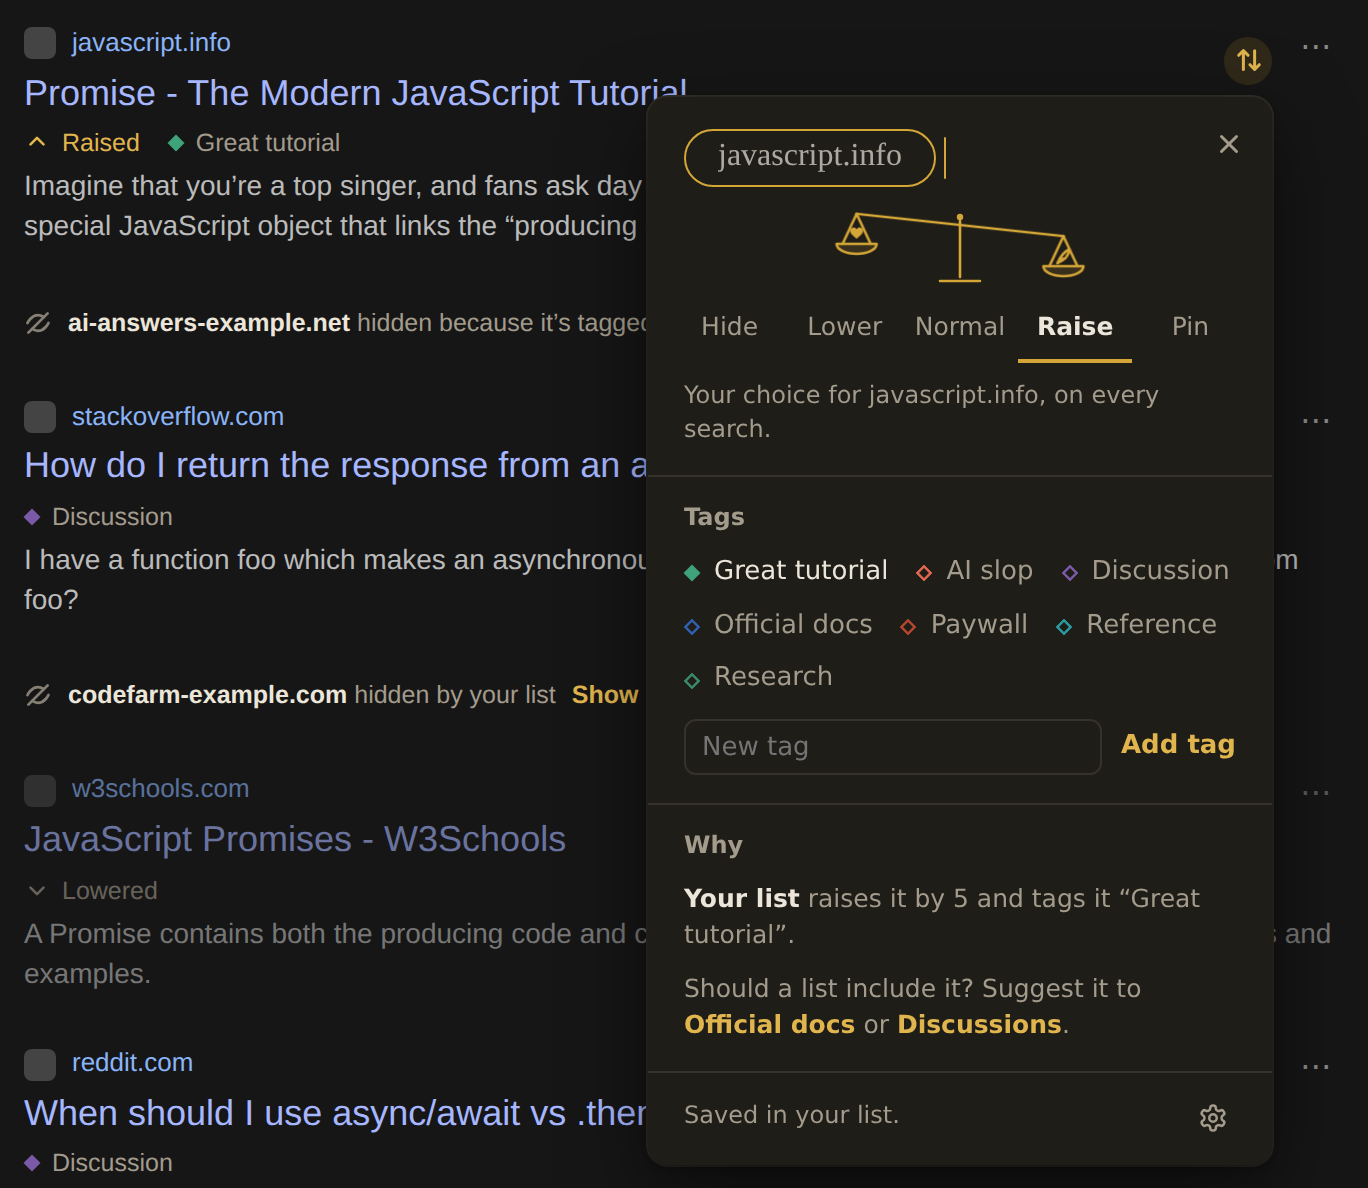
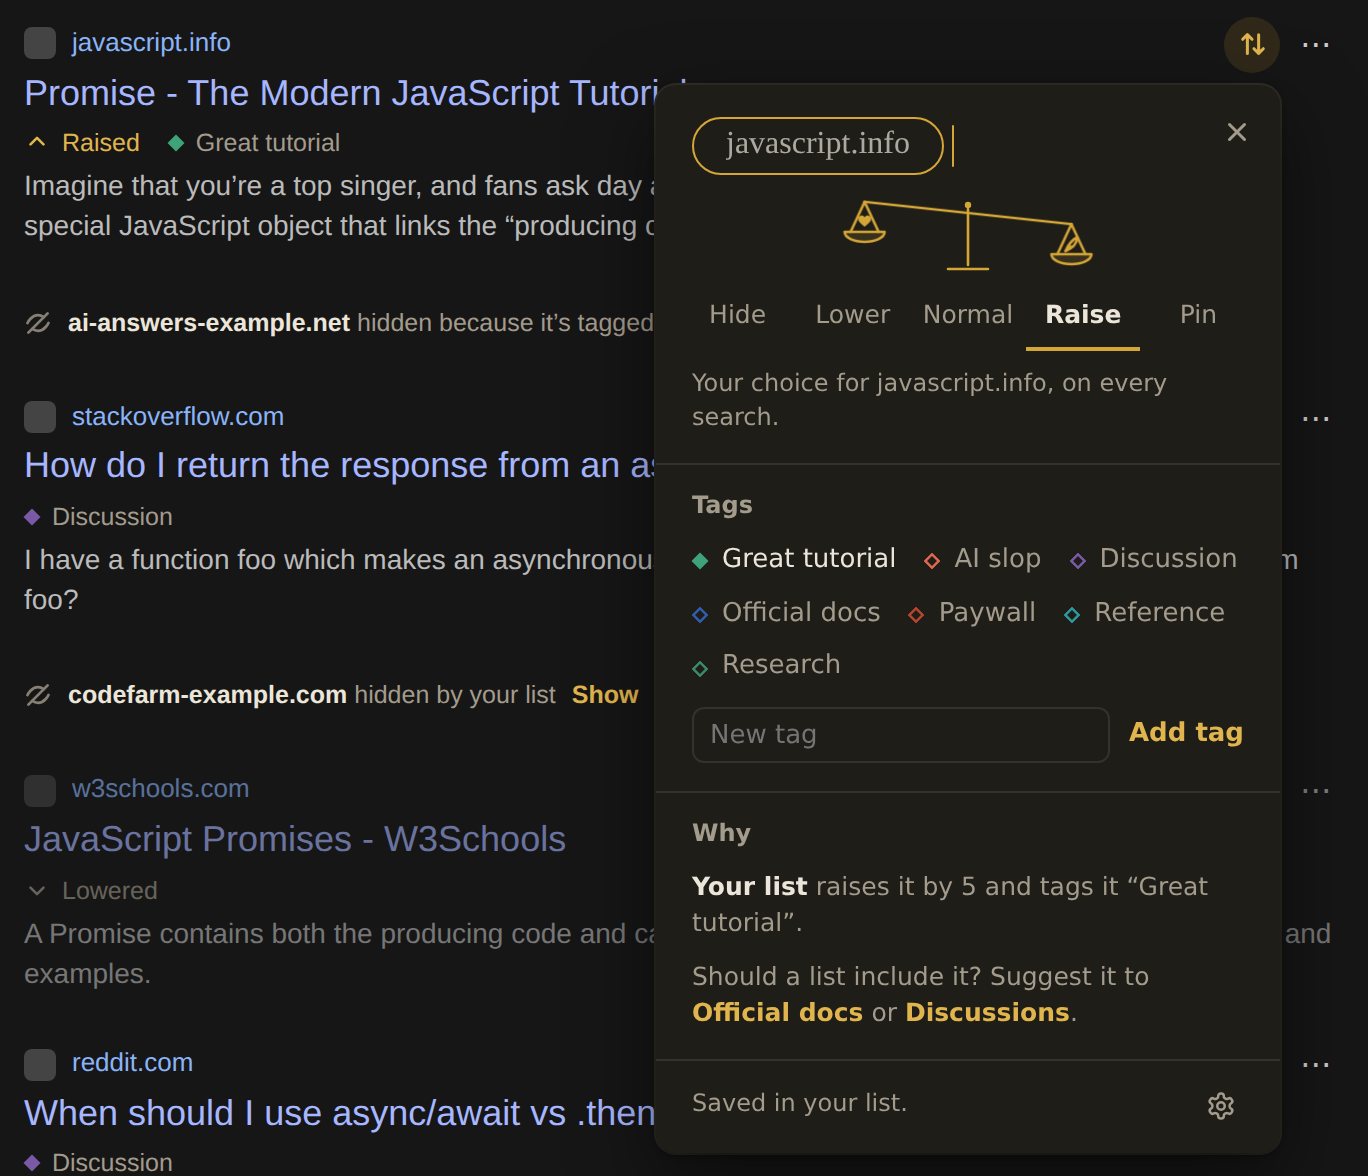
Put DuckDuckGo's weigh button beside the result's own menu, at its size

diff --git a/entrypoints/content/ui.ts b/entrypoints/content/ui.ts
@@ -275,10 +275,15 @@ export function ensureWeighButton(
     keepUpright(host);
     return;
   }
-  const { top, right } = engine.button ?? { top: '2px', right: '2px' };
+  const { top, right, besideMenu } = engine.button ?? { top: '2px', right: '2px' };
   host.style.setProperty('position', 'absolute', 'important');
-  host.style.setProperty('top', top, 'important');
-  host.style.setProperty('right', clearOfPictures(container, right), 'important');
+  const menu = besideMenu ? resultMenuOf(container) : undefined;
+  if (menu) placeBesideMenu(host, container, menu);
+  else {
+    for (const prop of MENU_LOOK) host.style.removeProperty(prop);
+    host.style.setProperty('top', top, 'important');
+    host.style.setProperty('right', clearOfPictures(container, right), 'important');
+  }
   host.style.setProperty('left', 'auto', 'important');
   host.style.setProperty('bottom', 'auto', 'important');
   host.style.setProperty('z-index', '5', 'important');
@@ -307,6 +312,44 @@ function clearOfPictures(container: HTMLElement, right: string): string {
     edge = Math.min(edge, r.left);
   }
   return edge === box.right ? right : `${Math.round(box.right - edge + 6)}px`;
+}
+
+/** The engine's own menu button on a result: the right-most small button in its top-right corner. */
+function resultMenuOf(container: HTMLElement): HTMLElement | undefined {
+  const box = container.getBoundingClientRect();
+  if (!box.width) return undefined;
+  let menu: HTMLElement | undefined;
+  let menuRight = -Infinity;
+  for (const el of container.querySelectorAll<HTMLElement>('button, [role="button"]')) {
+    const r = el.getBoundingClientRect();
+    if (!r.width || r.width > 48 || r.height > 48 || r.top > box.top + 64 || r.right < box.right - 64) continue;
+    if (r.right > menuRight) {
+      menu = el;
+      menuRight = r.right;
+    }
+  }
+  return menu;
+}
+
+/** What the weigh button takes from the engine's menu button to look like its neighbour. */
+const MENU_LOOK = ['--anubis-weigh-size', '--anubis-weigh-radius'];
+
+/**
+ * Just left of the engine's menu button and centred on it, at its size and shape,
+ * so the two read as a pair of options. The colours stay Anubis's own.
+ */
+function placeBesideMenu(host: HTMLElement, container: HTMLElement, menu: HTMLElement): void {
+  const box = container.getBoundingClientRect();
+  const m = menu.getBoundingClientRect();
+  const cs = getComputedStyle(container);
+  const ms = getComputedStyle(menu);
+  const size = Math.round(Math.min(44, Math.max(20, m.width, m.height)));
+  const top = m.top + m.height / 2 - size / 2 - box.top - parseFloat(cs.borderTopWidth);
+  const right = box.right - parseFloat(cs.borderRightWidth) - m.left + 4;
+  host.style.setProperty('top', `${Math.round(top)}px`, 'important');
+  host.style.setProperty('right', `${Math.round(right)}px`, 'important');
+  host.style.setProperty('--anubis-weigh-size', `${size}px`);
+  host.style.setProperty('--anubis-weigh-radius', parseFloat(ms.borderTopLeftRadius) ? ms.borderTopLeftRadius : '50%');
 }
 
 export function weighButtonOf(container: HTMLElement): HTMLButtonElement | undefined {

diff --git a/utils/engines.ts b/utils/engines.ts
@@ -43,8 +43,13 @@ export interface EngineDef {
   extraRows?: number;
   /** Results are table rows: hide rows instead of collapsing, and don't rerank. */
   table?: boolean;
-  /** Where the weigh button sits in the top-right corner of each result. */
-  button?: { top: string; right: string };
+  /**
+   * Where the weigh button sits in the top-right corner of each result. With
+   * `besideMenu`, it sits just left of the engine's own menu button on the result
+   * (DuckDuckGo's ⋯) instead, at its size and in its colour, like a second option;
+   * `top` and `right` apply when a result has no such button.
+   */
+  button?: { top: string; right: string; besideMenu?: boolean };
   /** How "Load more results" gets more results onto the page. */
   more?: MoreResults;
   /** Changes for the phone layout some engines send to mobile browsers (Firefox for Android). */
@@ -114,8 +119,8 @@ export const ENGINES: EngineDef[] = [
     isResultsPage: (url) => hasQuery(url, 'q'),
     heading: 'h2',
     boundary: 'ol, main, [data-testid="web-vertical"]',
-    // Clear of DuckDuckGo's own result menu in the corner.
-    button: { top: '6px', right: '36px' },
+    // Beside DuckDuckGo's own ⋯ menu on each result, as a second option.
+    button: { top: '6px', right: '36px', besideMenu: true },
     more: { kind: 'click', button: '#more-results, button[data-testid="more-results"]' },
   },
   {

diff --git a/entrypoints/content/shadow.css b/entrypoints/content/shadow.css
@@ -119,14 +119,16 @@ button {
   z-index: 5;
   display: block;
 }
+/* Size and shape come from the engine's own menu button where the weigh button
+   sits beside it (DuckDuckGo). */
 .weigh {
   display: grid;
   place-items: center;
-  width: 24px;
-  height: 24px;
+  width: var(--anubis-weigh-size, 24px);
+  height: var(--anubis-weigh-size, 24px);
   padding: 0;
   border: 0;
-  border-radius: 50%;
+  border-radius: var(--anubis-weigh-radius, 50%);
   color: var(--muted);
   background: transparent;
   opacity: var(--anubis-weigh-opacity, 0.35);
@@ -154,8 +156,8 @@ button {
 /* A finger needs a bigger target than a pointer. */
 @media (pointer: coarse) {
   .weigh {
-    width: 32px;
-    height: 32px;
+    width: var(--anubis-weigh-size, 32px);
+    height: var(--anubis-weigh-size, 32px);
   }
   .weigh svg {
     width: 17px;

diff --git a/docs/experiments.md b/docs/experiments.md
@@ -61,6 +61,7 @@ Reported with screenshots from everyday use. This environment's network policy b
 - **Reddit results on Google had no ⇅ button and no tags.** Forum results show the forum's name ("Reddit · r/learnpython") and "20+ comments · 2 years ago" where the address would be. With Google's opaque `/goto` links (uBlacklist switched to reading the address on 2026-08-28), the address was all Anubis had, so the result was dropped. Now it also tries the link's `ping` address, another direct link in the result, and then a known forum's name (Reddit, Quora, Stack Overflow, Hacker News, Steam Community, Tripadvisor). **Unconfirmed:** that the real result uses `/goto` links; if its title isn't an `h3` inside a link, this doesn't help.
 - **Google's page navigation went with "People also search for".** Both sit in one block at the bottom of the page, and clean-up took the whole block (it showed inside the dashed outline). The Next link, the More results button and any navigation of page numbers are now never removed, and the climb to a block stops below the element that holds them.
 - **Bing's "People also search for" stayed.** Bing adds it, with a close button, under a result you went to and came back from. It's assumed to be inside that result's `li.b_algo`, where clean-up never looked. Related searches and "People also ask" inside a result now go, as the largest block around the label that holds neither the result's title nor text of its own (the snippet); a label that is or holds a link (a sitelink) doesn't count.
+- **DuckDuckGo's ⇅ button looked out of place** beside the result's own ⋯ menu: a different size, a little higher, and 36px in from the corner by a fixed offset. It now sits 4px left of the ⋯, centred on it and at its size and shape, measured each pass (`besideMenu` on the engine's `button`). The ⋯ is found by position, as the right-most small button in the result's top-right corner, so its class names don't matter. A first version also took the ⋯'s colour and grey hover circle; the project owner preferred Anubis's own colours and gold hover, so only the size, shape and place are borrowed.
 - **Brave:** "Related queries" wasn't a known heading; it is now, under Related searches. Its "Discussions" panel had no switch; **Discussions** is a new kind (also Google's "Discussions and forums"), off by default. Why its Videos panel stayed is unknown. Two guesses are covered: the title is a link to Brave's Videos tab (text in links was ignored, to leave tabs alone), or it sits in a `<header>` element (ignored, for the page's header). A title link now counts when it holds only the label, isn't in navigation, a tab row or a form, and its block holds pictures or links to other sites, which a row of tabs doesn't. Only the page's own header is ignored now: one outside `main`, `article` or `section`, or holding a form.
 
 ## Reporting mistakes to lists
